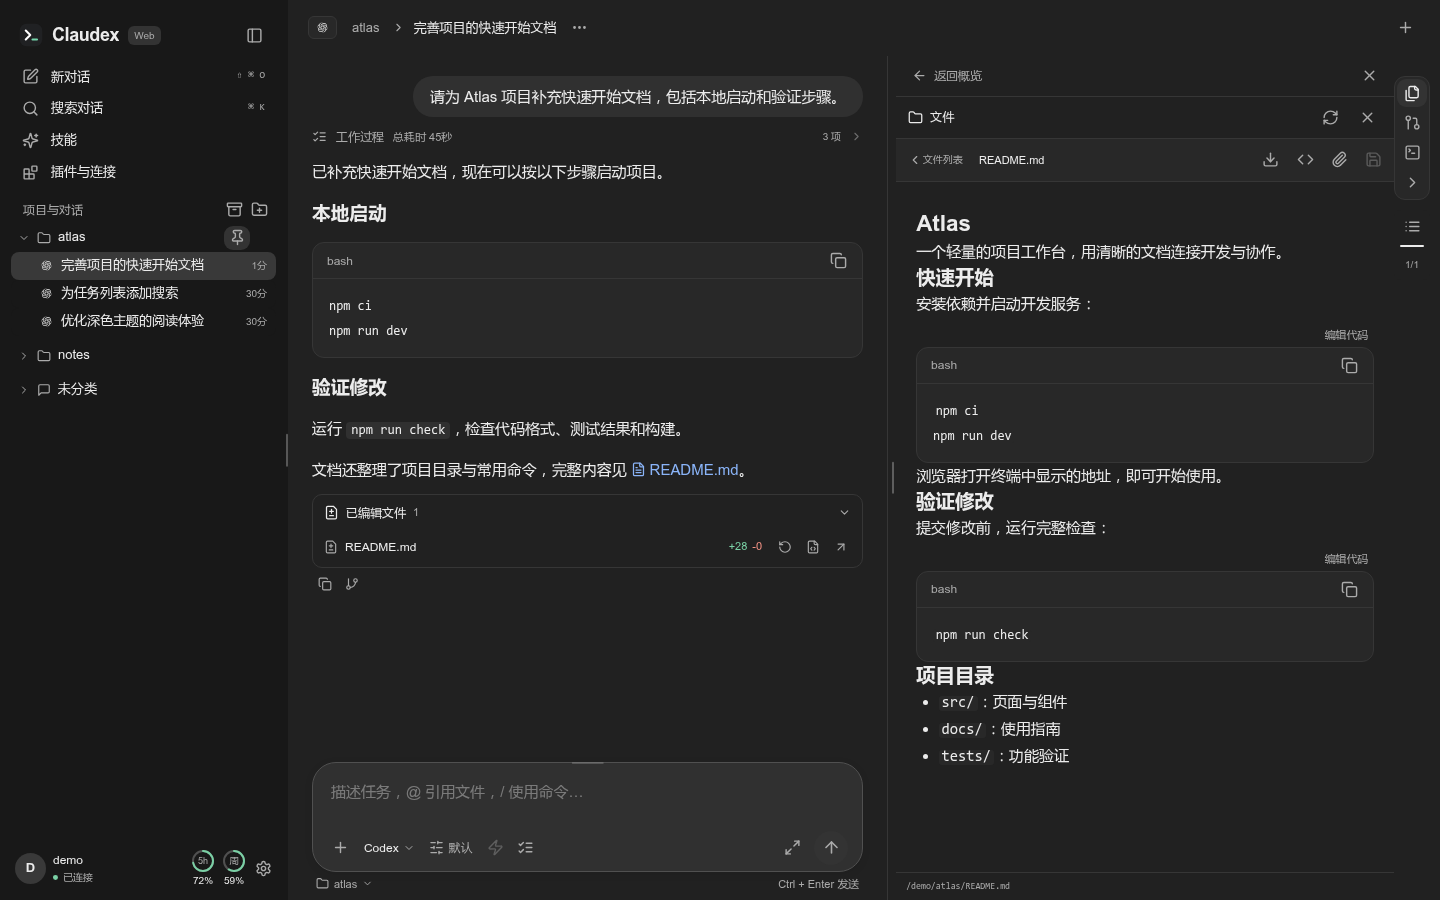
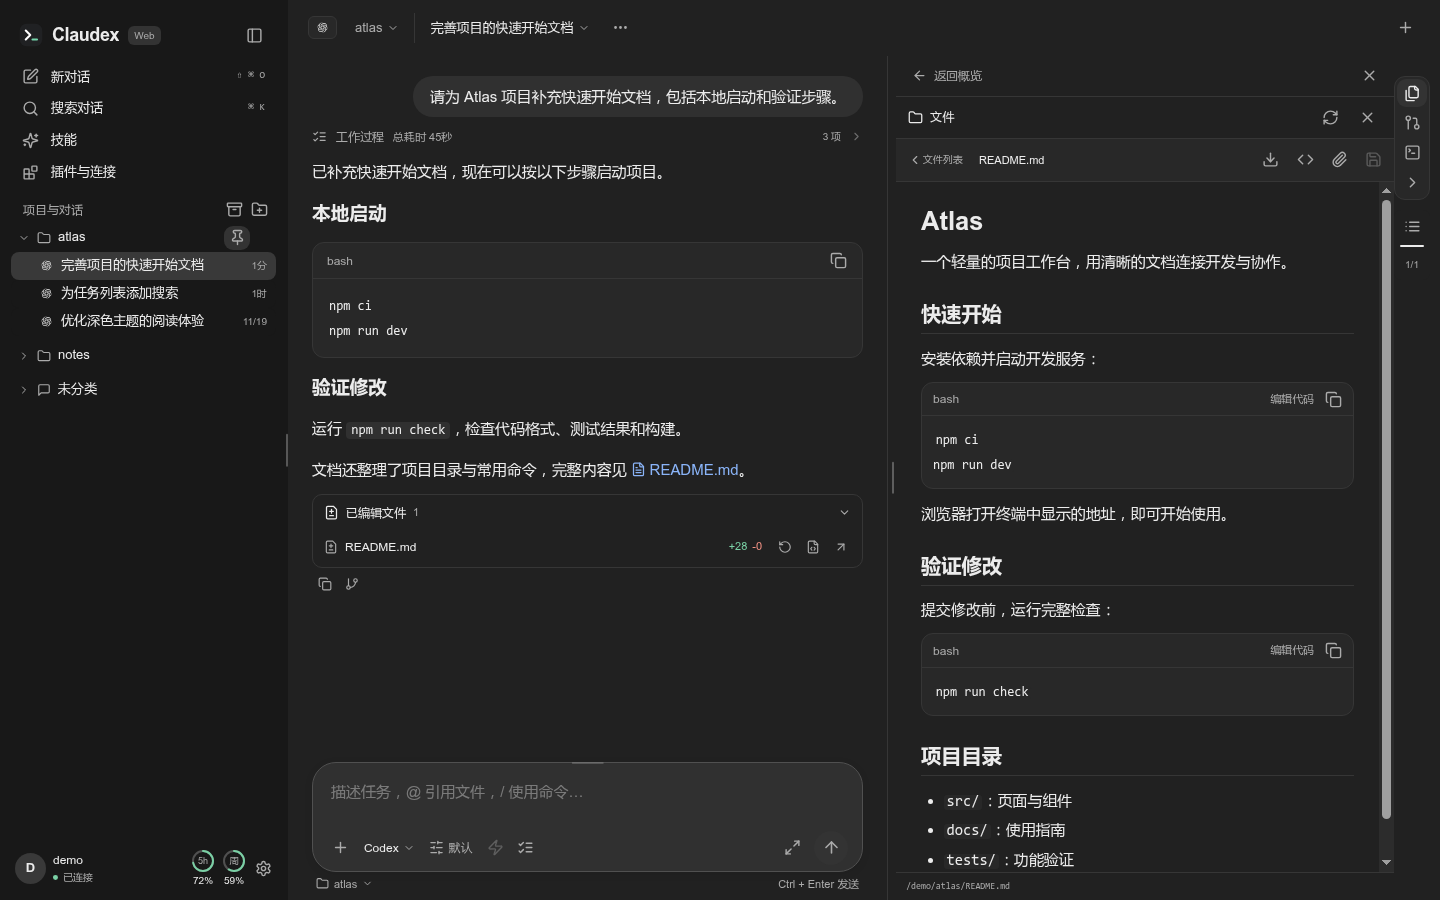
fix(file-markdown): 恢复文件预览的文档排版
- 为可编辑的 Markdown 文件预览设置独立的标题层级、章节间距和正文宽度，将普通代码块的编辑与复制操作放入同一行。
- 为宽表格保留可读列宽并在表格内横向滚动，使用真实浏览器覆盖深浅主题、窄屏及缩放，同步更新 README 桌面截图。

diff --git a/client/src/styles/file-markdown.css b/client/src/styles/file-markdown.css
@@ -1,0 +1,206 @@
+.file-markdown-preview {
+  flex: 1;
+  min-height: 0;
+  min-width: 0;
+  overflow: auto;
+  padding: 1.75rem clamp(1rem, 5%, 2.25rem);
+}
+.file-markdown-preview > .markdown-composer {
+  height: 100%;
+  max-inline-size: 48rem;
+  margin-inline: auto;
+  --document-height: 100%;
+  --document-limit: none;
+  --document-padding-y: 0;
+  --document-padding-x: 0;
+}
+.file-markdown-preview .document-editor-viewport {
+  overflow: visible;
+  height: auto;
+}
+.file-markdown-preview .markdown-composer > textarea {
+  width: 100%;
+  height: 100%;
+  resize: none;
+}
+.file-markdown-preview .markdown-composer .milkdown > .ProseMirror {
+  padding-block: 0;
+}
+.file-markdown-preview .markdown-composer .milkdown > .ProseMirror > * + * {
+  margin-block-start: 0.75em;
+}
+.file-markdown-preview
+  .markdown-composer
+  .milkdown
+  > .ProseMirror
+  > :is(h1, h2, h3, h4, h5, h6) {
+  margin-block: 1.1em 0;
+  font-weight: 650;
+  line-height: 1.3;
+}
+.file-markdown-preview .markdown-composer .milkdown > .ProseMirror > h1 {
+  font-size: 1.7em;
+}
+.file-markdown-preview .markdown-composer .milkdown > .ProseMirror > h2 {
+  margin-block-start: 1.35em;
+  padding-block-end: 0.28em;
+  border-block-end: 1px solid var(--border);
+  font-size: 1.35em;
+}
+.file-markdown-preview .markdown-composer .milkdown > .ProseMirror > h3 {
+  font-size: 1.12em;
+}
+.file-markdown-preview
+  .markdown-composer
+  .milkdown
+  > .ProseMirror
+  > :is(h4, h5, h6) {
+  font-size: 1em;
+}
+.file-markdown-preview
+  .markdown-composer
+  .milkdown
+  > .ProseMirror
+  > :is(h5, h6) {
+  color: var(--muted);
+}
+.file-markdown-preview
+  .markdown-composer
+  .milkdown
+  > .ProseMirror
+  > :first-child {
+  margin-block-start: 0;
+}
+.file-markdown-preview .milkdown > .ProseMirror :is(ul, ol) > li + li {
+  margin-block-start: 0.2em;
+}
+.file-markdown-preview
+  .milkdown
+  > .ProseMirror
+  :is(blockquote, li > div)
+  > p
+  + p {
+  margin-block-start: 0.55em;
+}
+.file-markdown-preview
+  .markdown-composer
+  .milkdown
+  > .ProseMirror
+  > blockquote {
+  padding-block: 0.2em;
+}
+.file-markdown-preview .milkdown > .ProseMirror > hr {
+  border: 0;
+  border-block-start: 1px solid var(--border);
+  margin-block-end: 1.1em;
+}
+.file-markdown-preview .markdown-composer .milkdown > .ProseMirror > table {
+  display: block;
+  max-inline-size: 100%;
+  overflow-x: auto;
+}
+.file-markdown-preview .milkdown > .ProseMirror > table :is(td, th) {
+  min-inline-size: 5em;
+  padding: 0.35em 0.65em;
+  font-size: 0.93em;
+}
+.file-markdown-preview .milkdown > .ProseMirror > table th {
+  background: var(--subtle);
+}
+.file-document-code > div:first-child {
+  display: flex;
+  justify-content: flex-end;
+}
+.file-document-code > div:first-child button {
+  font-size: 0.846154rem;
+  color: var(--muted);
+  border-radius: 0.4rem;
+  padding: 0.25em 0.5em;
+}
+.file-document-code > div > .markdown > .code-block {
+  margin-block: 0;
+}
+.file-document-code:has(
+  > div:not([hidden]) > .markdown > .code-block:not(.mermaid-block)
+) {
+  position: relative;
+}
+.file-document-code:has(
+    > div:not([hidden]) > .markdown > .code-block:not(.mermaid-block)
+  )
+  > div:first-child {
+  position: absolute;
+  inset-block-start: calc(0.25rem + 1px);
+  inset-inline-end: 2.65rem;
+  block-size: 2rem;
+}
+.file-document-code .code-block:not(.mermaid-block) > .code-heading {
+  padding: 0.25rem 0.5rem 0.25rem 0.85rem;
+}
+.file-document-code .code-block:not(.mermaid-block) > .code-heading > span {
+  margin-inline-end: 5rem;
+  overflow-wrap: anywhere;
+}
+.file-document-code .code-block:not(.mermaid-block) > .code-heading > button {
+  width: 2rem;
+  height: 2rem;
+}
+.file-document-code .code-block:not(.mermaid-block) > pre {
+  padding: 0.85rem;
+}
+.file-document-code > pre {
+  margin: 0;
+  padding: 0.75em;
+  background: var(--subtle);
+  border-radius: 0.5rem;
+  overflow: auto;
+  white-space: pre-wrap;
+}
+.file-document-code > pre > code {
+  background: none;
+  padding: 0;
+}
+.file-document-image {
+  display: inline-block;
+  width: 100%;
+}
+.file-document-html-inline > .markdown,
+.file-document-html-inline > .markdown > p {
+  display: contents;
+}
+.file-document-html-block {
+  display: block;
+}
+.file-markdown-preview
+  a:has(img:not(.ProseMirror-separator))
+  > .file-link-icon {
+  display: none;
+}
+.file-markdown-preview .milkdown-latex-inline-edit[data-show="false"] {
+  display: none;
+}
+.file-markdown-preview .milkdown-latex-inline-edit {
+  position: absolute;
+  background: var(--bg);
+  box-shadow: var(--shadow);
+  border-radius: 8px;
+  padding: 0.4rem 0.6rem;
+}
+.file-markdown-preview .milkdown-latex-inline-edit .container {
+  display: flex;
+  gap: 0.4rem;
+  align-items: flex-start;
+}
+.file-markdown-preview .milkdown-latex-inline-edit button {
+  width: 24px;
+  height: 24px;
+  border-radius: 8px;
+}
+.file-markdown-preview .milkdown-latex-inline-edit button:hover {
+  background: var(--hover);
+}
+.file-markdown-preview .milkdown-latex-inline-edit .ProseMirror {
+  min-width: 10rem;
+  max-width: min(18rem, 60vw);
+  font-family: var(--mono);
+}

diff --git a/client/src/styles/files.css b/client/src/styles/files.css
@@ -118,94 +118,9 @@
   opacity: 0.7;
   user-select: none;
 }
-.file-markdown-preview {
-  flex: 1;
-  min-height: 0;
-  min-width: 0;
-  overflow: auto;
-  padding: 1.538462rem;
-}
 .file-tab,
 .file-status {
   flex-shrink: 0;
-}
-.file-markdown-preview > .markdown-composer {
-  height: 100%;
-  --document-height: 100%;
-  --document-limit: none;
-  --document-padding-x: 0;
-}
-.file-markdown-preview .document-editor-viewport {
-  overflow: visible;
-  height: auto;
-}
-.file-markdown-preview .markdown-composer > textarea {
-  width: 100%;
-  height: 100%;
-  resize: none;
-}
-.file-document-code > div:first-child {
-  display: flex;
-  justify-content: flex-end;
-}
-.file-document-code > div:first-child button {
-  font-size: 0.846154rem;
-  color: var(--muted);
-  padding: 0.25em 0.5em;
-}
-.file-document-code > div > .markdown > .code-block {
-  margin-top: 0;
-}
-.file-document-code > pre {
-  padding: 0.75em;
-  background: var(--subtle);
-  border-radius: 0.5rem;
-  overflow: auto;
-  white-space: pre-wrap;
-}
-.file-document-image {
-  display: inline-block;
-  width: 100%;
-}
-.file-document-html-inline > .markdown,
-.file-document-html-inline > .markdown > p {
-  display: contents;
-}
-.file-document-html-block {
-  display: block;
-}
-.file-markdown-preview
-  a:has(img:not(.ProseMirror-separator))
-  > .file-link-icon {
-  display: none;
-}
-.file-markdown-preview .milkdown-latex-inline-edit[data-show="false"] {
-  display: none;
-}
-.file-markdown-preview .milkdown-latex-inline-edit {
-  position: absolute;
-  background: var(--bg);
-  box-shadow: var(--shadow);
-  border-radius: 8px;
-  padding: 0.4rem 0.6rem;
-}
-.file-markdown-preview .milkdown-latex-inline-edit .container {
-  display: flex;
-  gap: 0.4rem;
-  align-items: flex-start;
-}
-.file-markdown-preview .milkdown-latex-inline-edit button {
-  width: 24px;
-  height: 24px;
-  border-radius: 8px;
-}
-.file-markdown-preview .milkdown-latex-inline-edit button:hover {
-  background: var(--hover);
-}
-.file-markdown-preview .milkdown-latex-inline-edit .ProseMirror {
-  min-width: 10rem;
-  max-width: min(18rem, 60vw);
-  font-family: var(--mono);
 }
 .cm-editor.cm-focused {
   outline: none;

diff --git a/client/src/style.css b/client/src/style.css
@@ -21,6 +21,7 @@
 @import "./styles/composer-focus.css";
 @import "./styles/context.css";
 @import "./styles/files.css";
+@import "./styles/file-markdown.css";
 @import "./styles/diffs.css";
 @import "./styles/terminal.css";
 @import "./styles/dialogs.css";

diff --git a/CHANGELOG.md b/CHANGELOG.md
@@ -10,6 +10,7 @@
 
 ### 修复
 
+- 文件面板中的 Markdown 预览恢复清晰的标题层级和段落间距，代码块的编辑与复制操作同排显示，宽表格可在预览内横向滚动。
 - Claude Code 执行服务等待空闲更新时，设置页继续显示实际连接状态，现有对话可以继续使用。
 
 ### 维护
